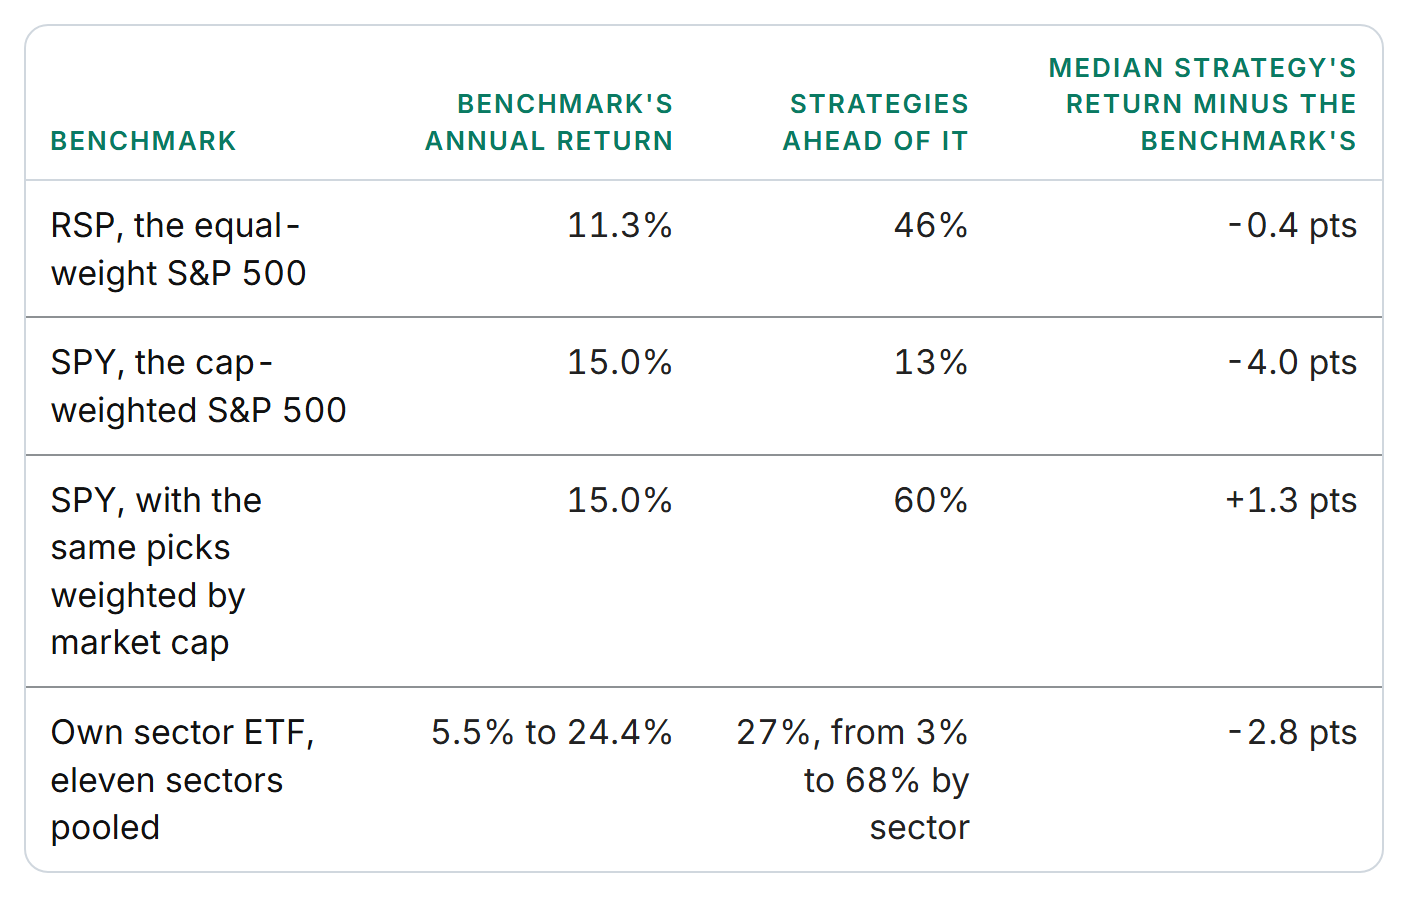
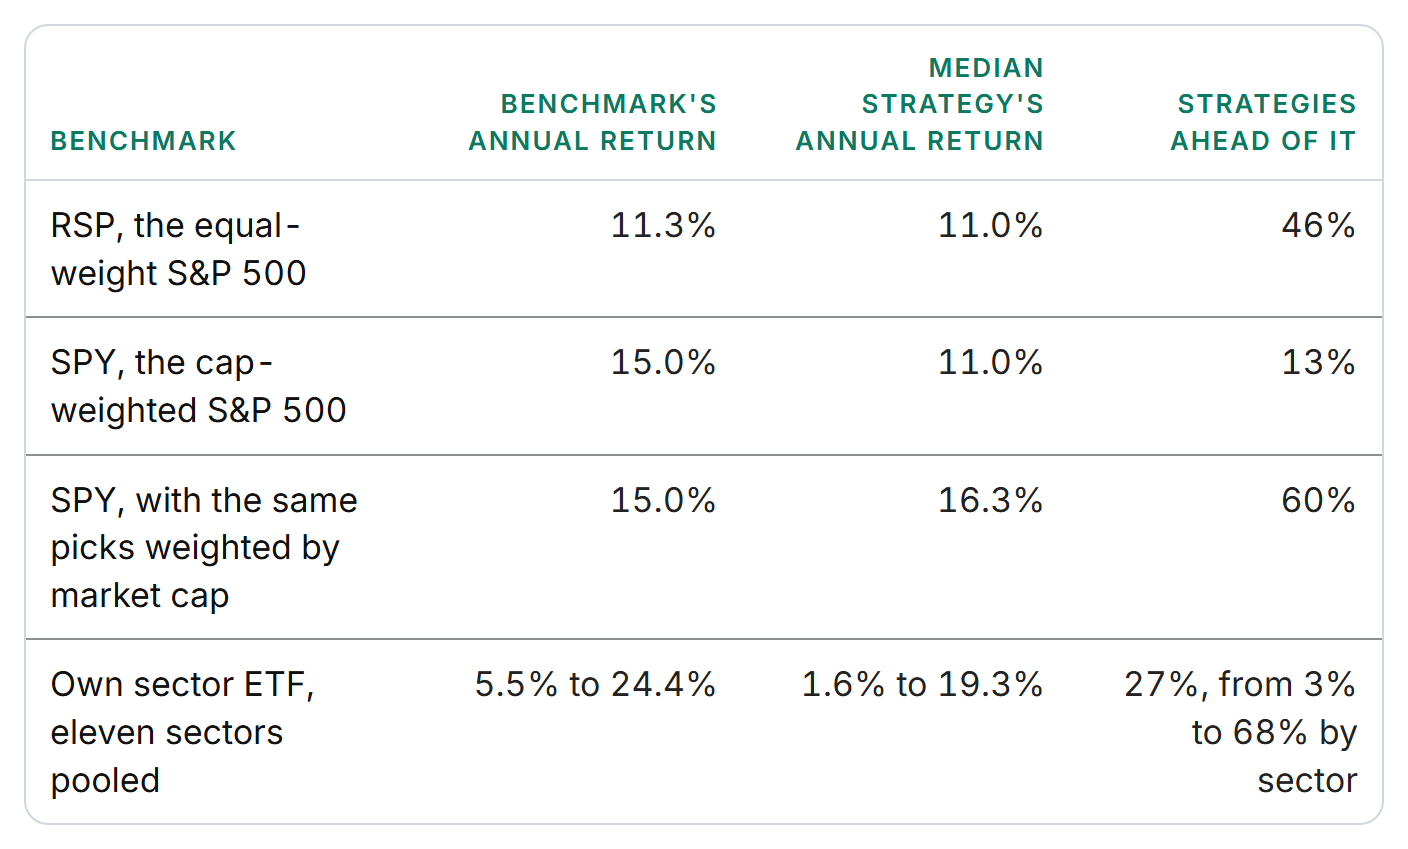
Edge study: Table 1 shows the median strategy's annual return beside each benchmark's

diff --git a/can-financial-statements-tell-you-which-stocks-to-buy/index.html b/can-financial-statements-tell-you-which-stocks-to-buy/index.html
@@ -160,40 +160,40 @@ article td:first-child { color:var(--text); }
 <p>So I used the software's sweep tool to build 31,000 adaptive strategies, the kind where the statistical tests pick the metrics, across 88 different universes from random combinations of settings, and I tested every one of them from 2016 to 2026. Each strategy was compared against two benchmarks: a random grouping of stocks from the same universe, and the ETF that matched its universe.</p>
 <h2 id="the-answer">The answer</h2>
 <p><strong>Yes.</strong> Scoring stocks with statistical methods on their financial data definitively beat picking stocks at random. The median strategy made about 11% per year and beat 97% of the random portfolios drawn from the same stocks. Random picking made 2% per year. That said, the last time I checked there wasn't an ETF, or a sane person, that picks stocks at random as an investment strategy. So how did the strategies compare to their respective ETF benchmarks?</p>
-<p>About as well as professional money managers do, and these strategies had every setting chosen at random. S&amp;P's own scorecard finds that 14% of actively managed large-cap funds beat the S&amp;P 500 over the ten years to 2025. Against the equal-weight S&amp;P 500, which weights stocks the way the software does, 46% of the strategies finished ahead, and the median strategy landed within half a point per year of it. Against the cap-weighted S&amp;P 500, 13% finished ahead with the picks held in equal amounts, about the professionals' rate, and 60% finished ahead when the same picks were weighted by market cap, four times it, before and after an allowance for trading costs. Sector by sector it was harder: 27% of the strategies beat their own sector ETF, from 3% in utilities to 68% in energy. Table 1 shows the share of strategies that finished ahead of each benchmark and how far the median strategy's compound annual growth rate (CAGR, i.e. the annual return) landed from the benchmark's.</p>
+<p>About as well as professional money managers do, and these strategies had every setting chosen at random. S&amp;P's own scorecard finds that 14% of actively managed large-cap funds beat the S&amp;P 500 over the ten years to 2025. Against the equal-weight S&amp;P 500, which weights stocks the way the software does, 46% of the strategies finished ahead, and the median strategy landed within half a point per year of it. Against the cap-weighted S&amp;P 500, 13% finished ahead with the picks held in equal amounts, about the professionals' rate, and 60% finished ahead when the same picks were weighted by market cap, four times it, before and after an allowance for trading costs. Sector by sector it was harder: 27% of the strategies beat their own sector ETF, from 3% in utilities to 68% in energy. Table 1 shows each benchmark's annual return, the median strategy's compound annual growth rate (CAGR, i.e. the annual return), and the share of strategies that finished ahead of it.</p>
 <div class="tbl"><table>
 <thead>
 <tr>
 <th>Benchmark</th>
 <th style="text-align: right;">Benchmark's annual return</th>
+<th style="text-align: right;">Median strategy's annual return</th>
 <th style="text-align: right;">Strategies ahead of it</th>
-<th style="text-align: right;">Median strategy's return minus the benchmark's</th>
 </tr>
 </thead>
 <tbody>
 <tr>
 <td>RSP, the equal-weight S&amp;P 500</td>
 <td style="text-align: right;">11.3%</td>
+<td style="text-align: right;">11.0%</td>
 <td style="text-align: right;">46%</td>
-<td style="text-align: right;">-0.4 pts</td>
 </tr>
 <tr>
 <td>SPY, the cap-weighted S&amp;P 500</td>
 <td style="text-align: right;">15.0%</td>
+<td style="text-align: right;">11.0%</td>
 <td style="text-align: right;">13%</td>
-<td style="text-align: right;">-4.0 pts</td>
 </tr>
 <tr>
 <td>SPY, with the same picks weighted by market cap</td>
 <td style="text-align: right;">15.0%</td>
+<td style="text-align: right;">16.3%</td>
 <td style="text-align: right;">60%</td>
-<td style="text-align: right;">+1.3 pts</td>
 </tr>
 <tr>
 <td>Own sector ETF, eleven sectors pooled</td>
 <td style="text-align: right;">5.5% to 24.4%</td>
+<td style="text-align: right;">1.6% to 19.3%</td>
 <td style="text-align: right;">27%, from 3% to 68% by sector</td>
-<td style="text-align: right;">-2.8 pts</td>
 </tr>
 </tbody>
 </table></div>
